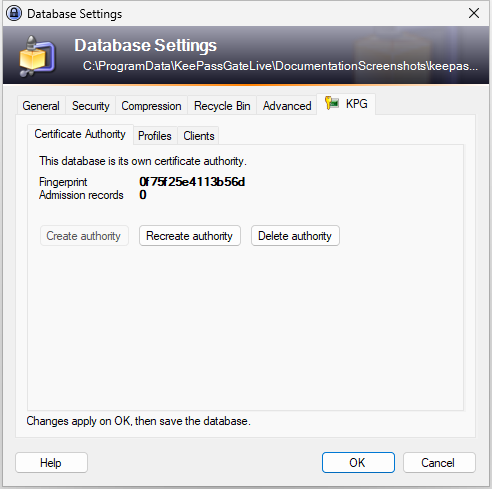
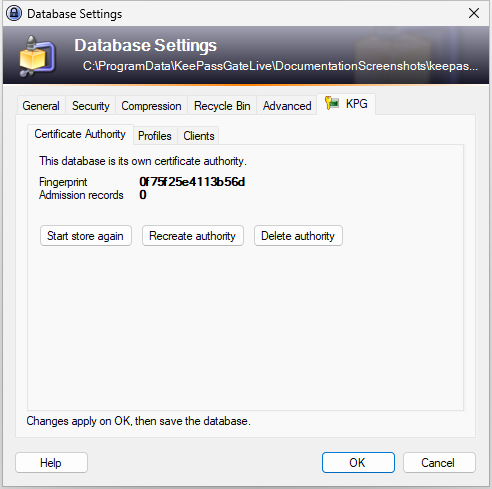
Retake the pictures with a stopped store and its seal
The whole set is taken again. Two pictures are new and shown where the
operator's guide describes a stopped store: the Certificate Authority
page over a stopped store, and the window Seal store again opens. The
page over a whole store offers Start store again beside Recreate and
Delete.

Changed region(s): [[0.0915, 0.4601, 0.7012, 0.5215]]

diff --git a/docs/getting-started.md b/docs/getting-started.md
@@ -358,6 +358,8 @@ passes, a record no summary entry restates, or no room left for the store's next
 client is answered `503 stopped` until the stop is lifted, in this copy and in every copy
 the deletion or the edit reaches.
 
+![The Certificate Authority page over a stopped store](images/store-stopped.png)
+
 **Seal store again**, in the place of **Recreate authority**, lifts the stop. It opens a window
 listing what the deletion records show as deleted, a row for each: what kind of thing it was, what
 it was about, and what sealing makes of it. A rule, a switch or an answer to a renewal whose version
@@ -371,6 +373,8 @@ tooltip, and is restated all the same: a copy from before the decision that brin
 the authority or the name back finds it refused. A rule or an answer that refuses until set again
 is set again in the grant editor or lifted on the Clients page. The window counts what the seal
 keeps: the authorities, the clients, the profile names, the ruled nodes and the standing answers.
+
+![The window Seal store again opens](images/seal-again.png)
 
 **What was deleted with no deletion record cannot be shown**, and the window states it: sealing
 makes the state shown the state, in this copy and in every copy that takes the file in. So the
